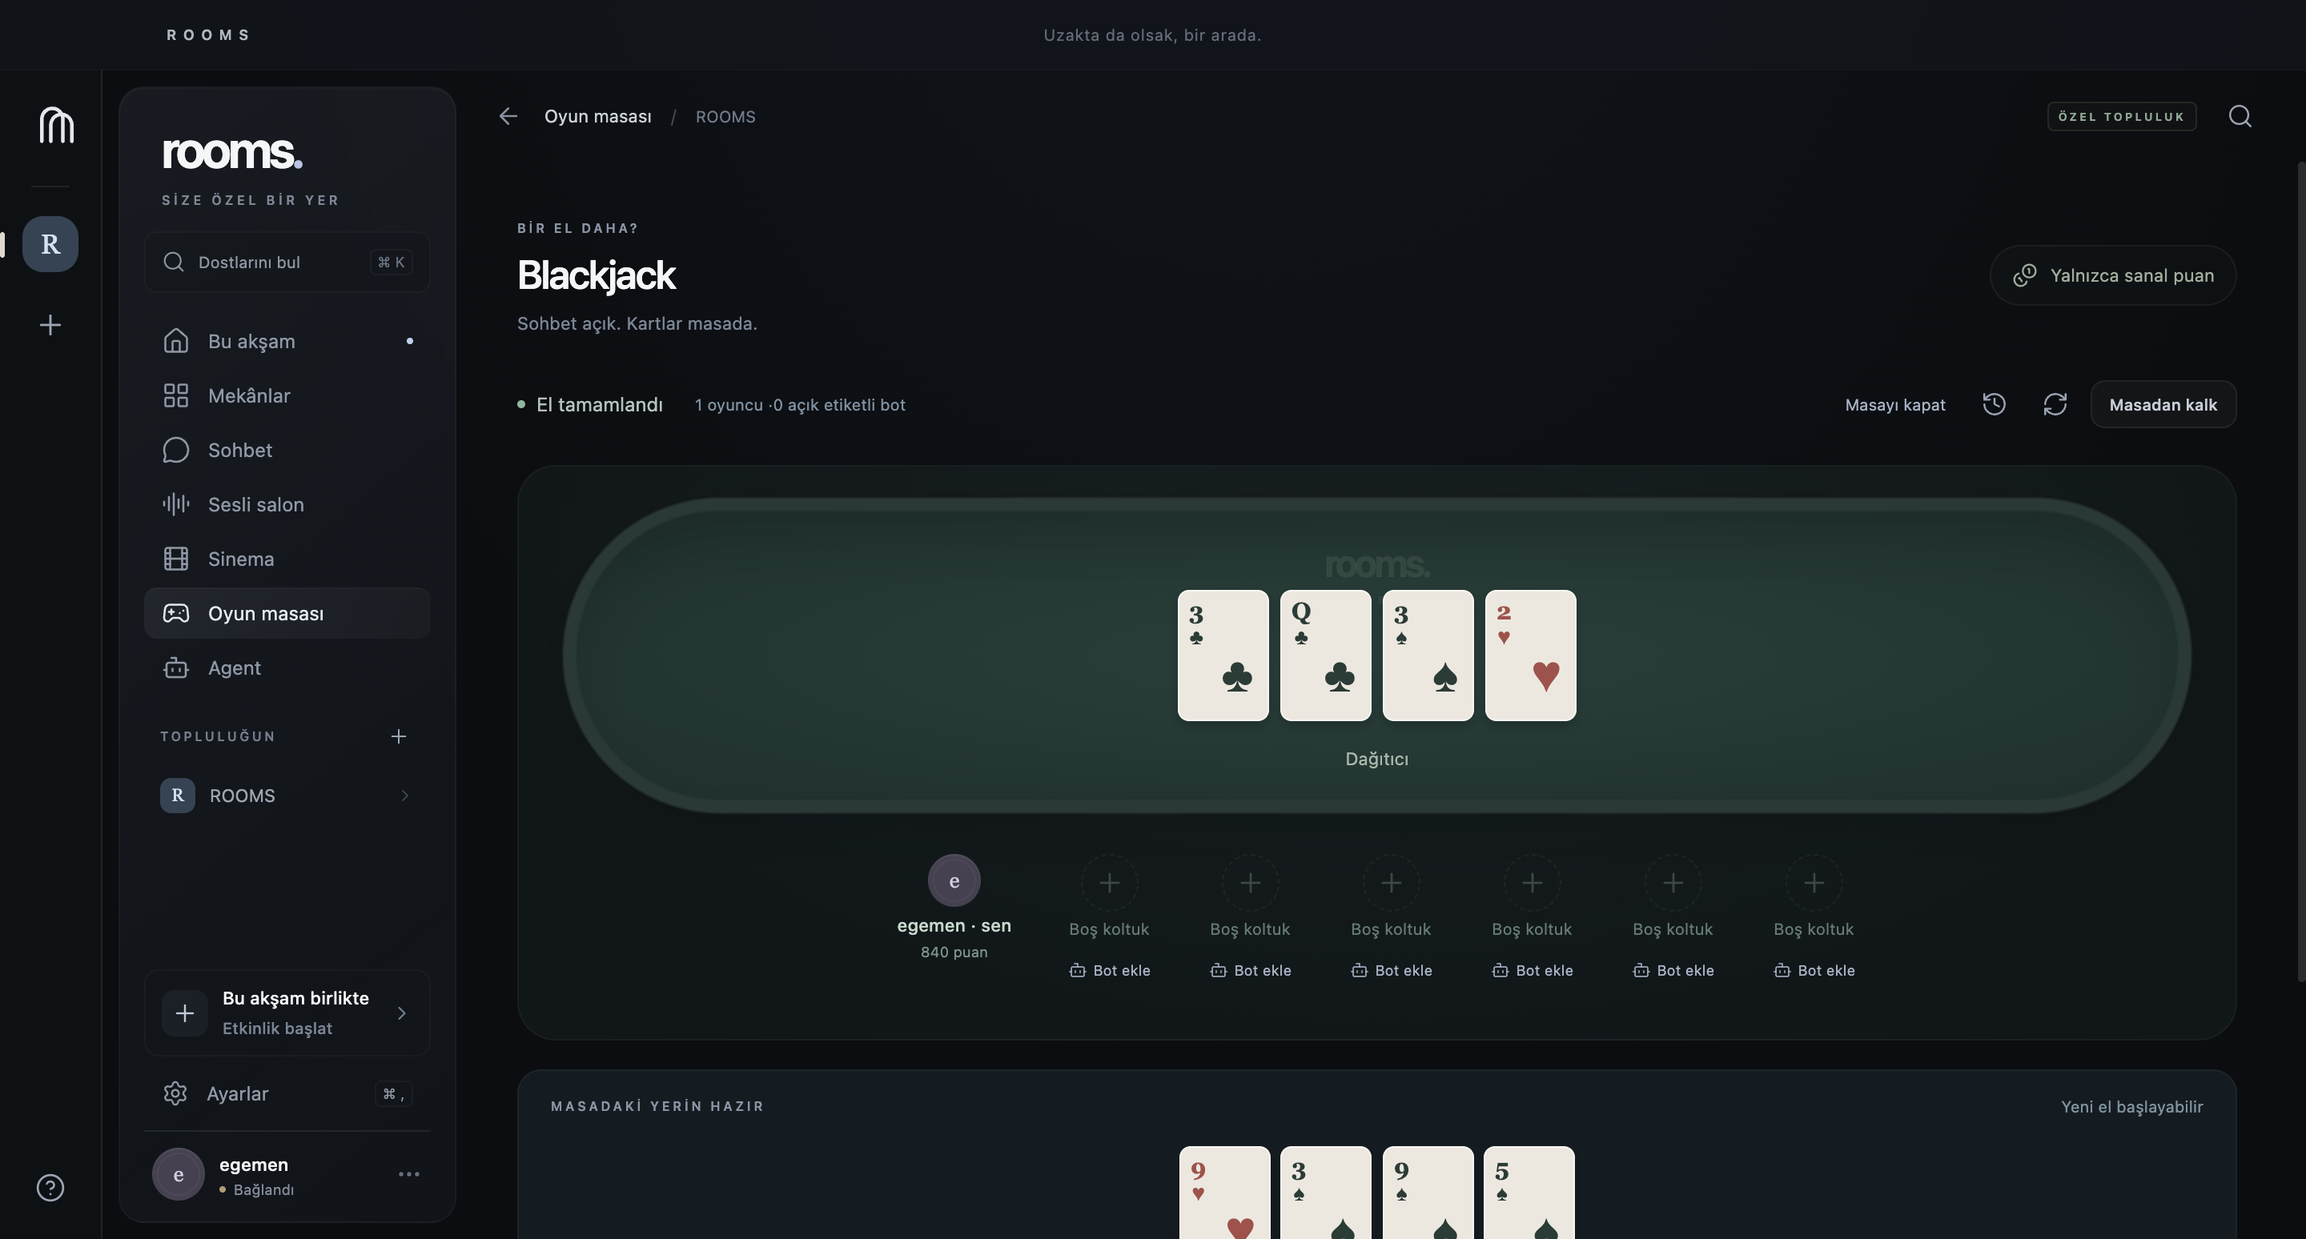
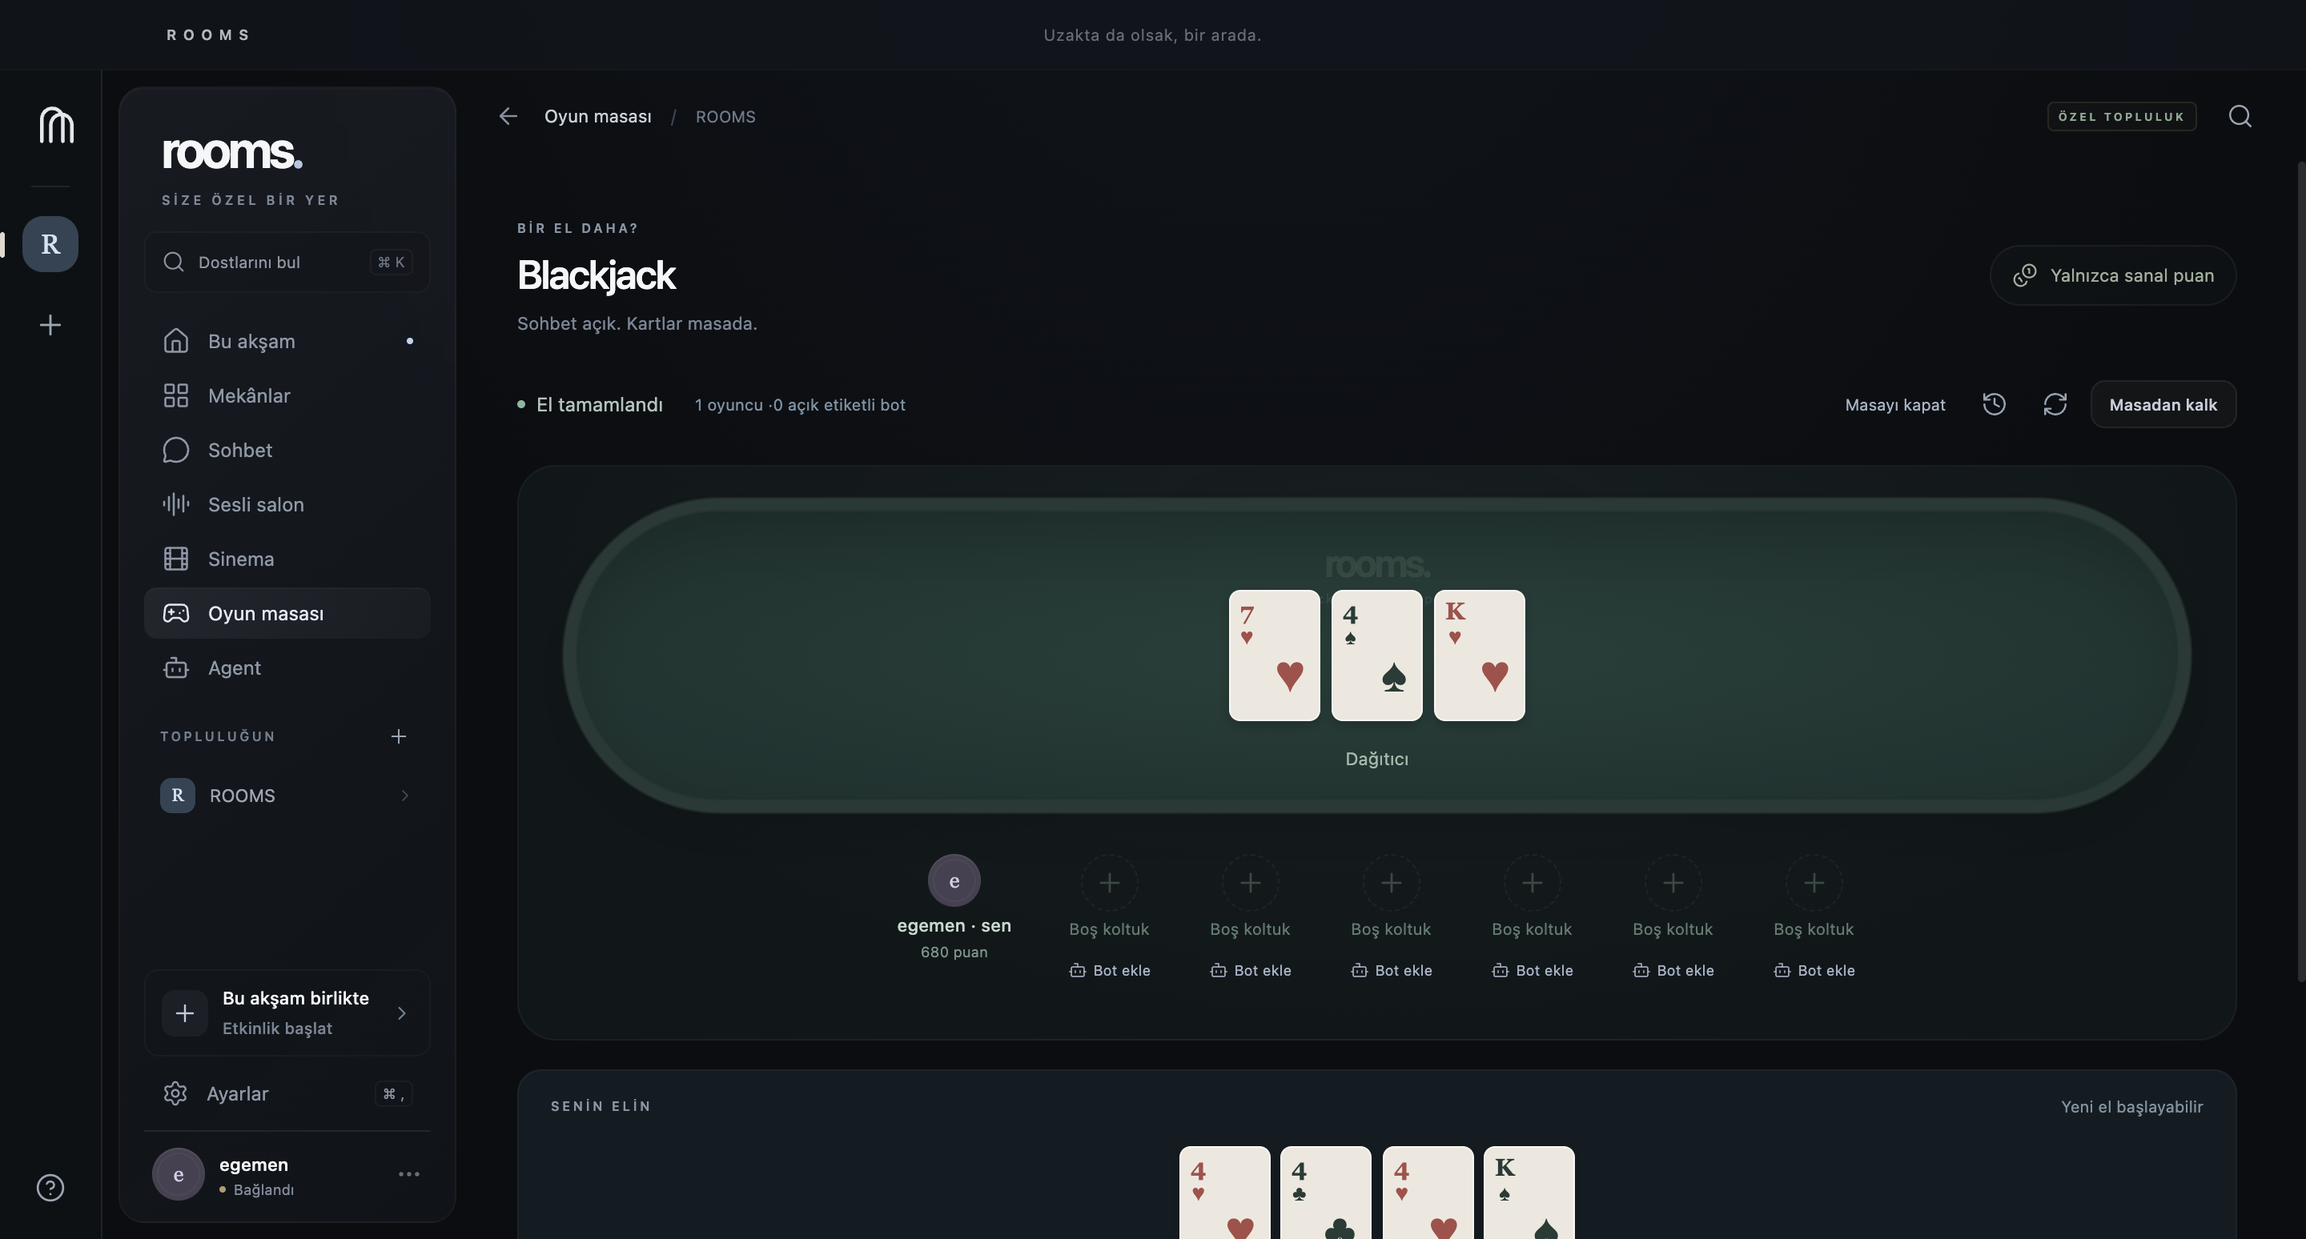
test(desktop): verify packaged Activity recovery and private-hand labels

Changed region(s): [[0.5, 0.4651, 0.6875, 0.5891], [0.5625, 0.9922, 0.6562, 1.0], [0.25, 0.8682, 0.3125, 0.8992]]

diff --git a/docs/CONTINUATION_CHECKPOINT.md b/docs/CONTINUATION_CHECKPOINT.md
@@ -82,3 +82,19 @@ The same public load test then PASSed over 151 seconds: all six observers receiv
 The first harness run passed double but timed out starting another hand because it inspected stale finished state before the preceding asynchronous start completed. Failure and owned cleanup are retained in NATIVE_BLACKJACK_ADVANCED_START_WAIT_RESULTS.json. The observer now waits for authoritative playing state or a newly naturally settled hand before inspecting the next round. No product source, deployment, published asset or production cards changed in this acceptance step. This certifies these controls/settled hands, not every Blackjack rule, multi-player games or physical friends' play.
 
 Visual QA also found the private-hand eyebrow says “your seat is ready” while Blackjack cards are visible: Games.tsx only counts the flat cards/tiles arrays, whereas Blackjack uses nested hands. Record this for the next grouped desktop refinement/release; do not overwrite 0.1.5 assets. Remaining independent gates include advanced native 101 meld/pairs/joker/process actions, native full Batak/101 hands, other Holdem actions, network recovery and six distinct native clients. External prerequisites remain unchanged. No acceptance process remains running.
+
+## 2026-10-10 — scoped Activity recovery and desktop 0.1.6
+
+Two actual packaged 0.1.5 clients on one Mac PASSed native note/poll/guest-vote delivery, observed Activity-process stop, real social message delivery while Activities was stopped, automatic recovery of PostgreSQL-backed note/poll/vote and a post-recovery native shared write. Baseline recovery evidence/screenshots remain separately versioned. This does not certify whole-network interruption, voice/SFU or physical devices.
+
+Visual QA exposed misleading whole-social-server outage copy for an Activity-only interruption. Native Activity reads now check protocol/room/revision and the current authenticated session after asynchronous completion, retain bounded authorization codes, and report an Activity-specific outage without upstream details. Three new boundary tests cover stale sessions, foreign/malformed snapshots and network/HTTP failures; reads do not retry automatically inside the native helper. The existing observer drives normal reconnection. Blackjack now counts its nested private hands when choosing the visible hand label.
+
+107 tests/24 files, typecheck, full desktop build, Apple Silicon DMG/ZIP packaging and actual packaged 0.1.6 launch/local video passed; all 22 bundled files match. Actual two-client 0.1.6 recovery PASSed all six cases with the precise translated Activity-only outage message on both clients, observed disconnect in 3011 ms and automatic recovery in 2832 ms. Original note/poll/guest vote remained byte-equivalent; native post-recovery note reached the other client. Zero renderer errors, exact owned-channel cleanup, temporary profiles removed and Activity resumed. Final public health and all sixteen running core services passed. Hoppers was untouched.
+
+The first 0.1.6 copy check used an exact text locator on a container that also contains the retry button; it timed out after disconnect despite zero renderer errors. Finally restored the service and removed owned data. Failure is retained in NATIVE_ACTIVITY_RECOVERY_0.1.6_COPY_SELECTOR_RESULTS.json. The corrected observer records actual empty-description text and asserts the contained translated message; the passing record includes both strings. No product fix was invented from that selector failure.
+
+Actual packaged 0.1.6 Blackjack PASSed correct private-hand label, native double/hit/split/stand and six naturally dealt settled rounds, including two separately settled split hands. Zero renderer errors; exact owned cleanup. Cards/shoe were never injected or altered by QA. 0.1.5 advanced evidence is preserved separately. Split and outage screenshots were inspected. Evidence: NATIVE_ACTIVITY_RECOVERY_RESULTS.json and NATIVE_BLACKJACK_ADVANCED_RESULTS.json under infra/production, docs/PACKAGE_TEST_RESULTS.json and actual screenshots under docs/screenshots/production. The ten-game suite and 101 draft-isolation checks were accepted on 0.1.5; the 908-second local-playback soak and shared official YouTube were accepted on 0.1.4. Do not imply those bounded historical checks were rerun on 0.1.6.
+
+Remaining: native 101 opening/pairs/joker/processing/full hands, other Holdem actions, native complete Batak hands, whole-network reconnect and six distinct native-client capacity; external Agent/accounts/providers/signing/physical-device prerequisites remain explicit. Preview remains unsigned, not notarized. No QA app/process remains active.
+
+0.1.6 acceptance is complete for the scope above. Source commit 81fd0f6 is local; commit/push acceptance, then publish a new private prerelease against the exact full pushed source hash. Verify uploaded size/digests, source tag and preserved 0.1.5 assets before updating the protected friend handoff. Never replace older published assets.

diff --git a/docs/IMPLEMENTATION_PROGRESS.md b/docs/IMPLEMENTATION_PROGRESS.md
@@ -167,3 +167,17 @@ The same public load test then PASSed over 151 seconds: all six observers receiv
 The first harness run passed double but timed out starting another hand because it inspected stale finished state before the preceding asynchronous start completed. Failure and owned cleanup are retained in NATIVE_BLACKJACK_ADVANCED_START_WAIT_RESULTS.json. The observer now waits for authoritative playing state or a newly naturally settled hand before inspecting the next round. No product source, deployment, published asset or production cards changed in this acceptance step. This certifies these controls/settled hands, not every Blackjack rule, multi-player games or physical friends' play.
 
 Visual QA also found the private-hand eyebrow says “your seat is ready” while Blackjack cards are visible: Games.tsx only counts the flat cards/tiles arrays, whereas Blackjack uses nested hands. Record this for the next grouped desktop refinement/release; do not overwrite 0.1.5 assets. Remaining independent gates include advanced native 101 meld/pairs/joker/process actions, native full Batak/101 hands, other Holdem actions, network recovery and six distinct native clients. External prerequisites remain unchanged. No acceptance process remains running.
+
+## 2026-10-10 — scoped Activity recovery and desktop 0.1.6
+
+Two actual packaged 0.1.5 clients on one Mac PASSed native note/poll/guest-vote delivery, observed Activity-process stop, real social message delivery while Activities was stopped, automatic recovery of PostgreSQL-backed note/poll/vote and a post-recovery native shared write. Baseline recovery evidence/screenshots remain separately versioned. This does not certify whole-network interruption, voice/SFU or physical devices.
+
+Visual QA exposed misleading whole-social-server outage copy for an Activity-only interruption. Native Activity reads now check protocol/room/revision and the current authenticated session after asynchronous completion, retain bounded authorization codes, and report an Activity-specific outage without upstream details. Three new boundary tests cover stale sessions, foreign/malformed snapshots and network/HTTP failures; reads do not retry automatically inside the native helper. The existing observer drives normal reconnection. Blackjack now counts its nested private hands when choosing the visible hand label.
+
+107 tests/24 files, typecheck, full desktop build, Apple Silicon DMG/ZIP packaging and actual packaged 0.1.6 launch/local video passed; all 22 bundled files match. Actual two-client 0.1.6 recovery PASSed all six cases with the precise translated Activity-only outage message on both clients, observed disconnect in 3011 ms and automatic recovery in 2832 ms. Original note/poll/guest vote remained byte-equivalent; native post-recovery note reached the other client. Zero renderer errors, exact owned-channel cleanup, temporary profiles removed and Activity resumed. Final public health and all sixteen running core services passed. Hoppers was untouched.
+
+The first 0.1.6 copy check used an exact text locator on a container that also contains the retry button; it timed out after disconnect despite zero renderer errors. Finally restored the service and removed owned data. Failure is retained in NATIVE_ACTIVITY_RECOVERY_0.1.6_COPY_SELECTOR_RESULTS.json. The corrected observer records actual empty-description text and asserts the contained translated message; the passing record includes both strings. No product fix was invented from that selector failure.
+
+Actual packaged 0.1.6 Blackjack PASSed correct private-hand label, native double/hit/split/stand and six naturally dealt settled rounds, including two separately settled split hands. Zero renderer errors; exact owned cleanup. Cards/shoe were never injected or altered by QA. 0.1.5 advanced evidence is preserved separately. Split and outage screenshots were inspected. Evidence: NATIVE_ACTIVITY_RECOVERY_RESULTS.json and NATIVE_BLACKJACK_ADVANCED_RESULTS.json under infra/production, docs/PACKAGE_TEST_RESULTS.json and actual screenshots under docs/screenshots/production. The ten-game suite and 101 draft-isolation checks were accepted on 0.1.5; the 908-second local-playback soak and shared official YouTube were accepted on 0.1.4. Do not imply those bounded historical checks were rerun on 0.1.6.
+
+Remaining: native 101 opening/pairs/joker/processing/full hands, other Holdem actions, native complete Batak hands, whole-network reconnect and six distinct native-client capacity; external Agent/accounts/providers/signing/physical-device prerequisites remain explicit. Preview remains unsigned, not notarized. No QA app/process remains active.

diff --git a/docs/OVERNIGHT_DEPLOYMENT_PLAN.md b/docs/OVERNIGHT_DEPLOYMENT_PLAN.md
@@ -119,3 +119,17 @@ The same public load test then PASSed over 151 seconds: all six observers receiv
 The first harness run passed double but timed out starting another hand because it inspected stale finished state before the preceding asynchronous start completed. Failure and owned cleanup are retained in NATIVE_BLACKJACK_ADVANCED_START_WAIT_RESULTS.json. The observer now waits for authoritative playing state or a newly naturally settled hand before inspecting the next round. No product source, deployment, published asset or production cards changed in this acceptance step. This certifies these controls/settled hands, not every Blackjack rule, multi-player games or physical friends' play.
 
 Visual QA also found the private-hand eyebrow says “your seat is ready” while Blackjack cards are visible: Games.tsx only counts the flat cards/tiles arrays, whereas Blackjack uses nested hands. Record this for the next grouped desktop refinement/release; do not overwrite 0.1.5 assets. Remaining independent gates include advanced native 101 meld/pairs/joker/process actions, native full Batak/101 hands, other Holdem actions, network recovery and six distinct native clients. External prerequisites remain unchanged. No acceptance process remains running.
+
+## 2026-10-10 — scoped Activity recovery and desktop 0.1.6
+
+Two actual packaged 0.1.5 clients on one Mac PASSed native note/poll/guest-vote delivery, observed Activity-process stop, real social message delivery while Activities was stopped, automatic recovery of PostgreSQL-backed note/poll/vote and a post-recovery native shared write. Baseline recovery evidence/screenshots remain separately versioned. This does not certify whole-network interruption, voice/SFU or physical devices.
+
+Visual QA exposed misleading whole-social-server outage copy for an Activity-only interruption. Native Activity reads now check protocol/room/revision and the current authenticated session after asynchronous completion, retain bounded authorization codes, and report an Activity-specific outage without upstream details. Three new boundary tests cover stale sessions, foreign/malformed snapshots and network/HTTP failures; reads do not retry automatically inside the native helper. The existing observer drives normal reconnection. Blackjack now counts its nested private hands when choosing the visible hand label.
+
+107 tests/24 files, typecheck, full desktop build, Apple Silicon DMG/ZIP packaging and actual packaged 0.1.6 launch/local video passed; all 22 bundled files match. Actual two-client 0.1.6 recovery PASSed all six cases with the precise translated Activity-only outage message on both clients, observed disconnect in 3011 ms and automatic recovery in 2832 ms. Original note/poll/guest vote remained byte-equivalent; native post-recovery note reached the other client. Zero renderer errors, exact owned-channel cleanup, temporary profiles removed and Activity resumed. Final public health and all sixteen running core services passed. Hoppers was untouched.
+
+The first 0.1.6 copy check used an exact text locator on a container that also contains the retry button; it timed out after disconnect despite zero renderer errors. Finally restored the service and removed owned data. Failure is retained in NATIVE_ACTIVITY_RECOVERY_0.1.6_COPY_SELECTOR_RESULTS.json. The corrected observer records actual empty-description text and asserts the contained translated message; the passing record includes both strings. No product fix was invented from that selector failure.
+
+Actual packaged 0.1.6 Blackjack PASSed correct private-hand label, native double/hit/split/stand and six naturally dealt settled rounds, including two separately settled split hands. Zero renderer errors; exact owned cleanup. Cards/shoe were never injected or altered by QA. 0.1.5 advanced evidence is preserved separately. Split and outage screenshots were inspected. Evidence: NATIVE_ACTIVITY_RECOVERY_RESULTS.json and NATIVE_BLACKJACK_ADVANCED_RESULTS.json under infra/production, docs/PACKAGE_TEST_RESULTS.json and actual screenshots under docs/screenshots/production. The ten-game suite and 101 draft-isolation checks were accepted on 0.1.5; the 908-second local-playback soak and shared official YouTube were accepted on 0.1.4. Do not imply those bounded historical checks were rerun on 0.1.6.
+
+Remaining: native 101 opening/pairs/joker/processing/full hands, other Holdem actions, native complete Batak hands, whole-network reconnect and six distinct native-client capacity; external Agent/accounts/providers/signing/physical-device prerequisites remain explicit. Preview remains unsigned, not notarized. No QA app/process remains active.

diff --git a/docs/FEATURE_MATRIX.md b/docs/FEATURE_MATRIX.md
@@ -11,7 +11,7 @@ This matrix supersedes the Spacebar-era matrix. Historical transport evidence re
 | Independent LiveKit transport and safe native source picker | Current public Stoat-authorized SFU transport, native microphone/window capture and presenter/logout/revocation passed on two development clients on one Mac | Fresh packaged permissions, physical two-computer audible audio/camera/PTT/device loss/reconnect; restrictive-network TURN/TLS |
 | Authoritative shared Activity timeline, queue and host transfer | Service tests; two actual Electron clients synchronize local Cinema play/pause/seek | Internet reconnect/restart and sustained synchronization |
 | Activity transport admission | Real six-connection/two-identity public load passed 151 seconds after shared-IP and authorization-error fixes; anonymous/outsider denial and cleanup passed | Six distinct identities/native clients and sustained room capacity |
-| Shared polls and whiteboard | Public membership-authorized mutations and persisted recovery after Activity restart/full core reboot passed | Broader native collaboration and friends’ sessions |
+| Shared polls and whiteboard | Public membership-authorized mutations and persisted recovery after Activity restart/full core reboot; two packaged 0.1.6 native clients preserve note/poll/vote and recover automatically after Activity stop/start while actual chat stays live | Broader native collaboration and friends’ sessions |
 | Holdem, Blackjack, four Batak variants, 101 | Authoritative engines, seven public full hands, hidden-state/public-result tests, completed bot games; ten packaged 0.1.5 public create/action/close cases including four 101 combinations; two native grouping/removal and clean new-table cases; native Blackjack double/hit/split/stand and four settled hands passed | Advanced native 101 meld/pairs/joker and other Holdem actions, friends’ full rules/play sessions and Internet reconnect acceptance |
 | YouTube Together | Two actual packaged 0.1.4 clients on public HTTPS passed official play/pause, pointer/keyboard seek, membership and late return; owned loading interruption/retry and provider error passed | Whole-network reconnect and sustained sync; normal per-viewer autoplay gesture remains required |
 | Personal IPTV M3U/HLS, Xtream and XMLTV | Native vault, opaque media handles, parsers and network/security tests; UI implemented | Authorized provider playback, EPG and codec tests |
